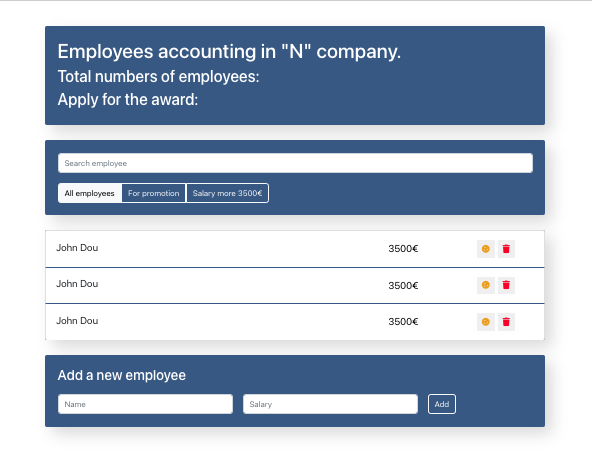
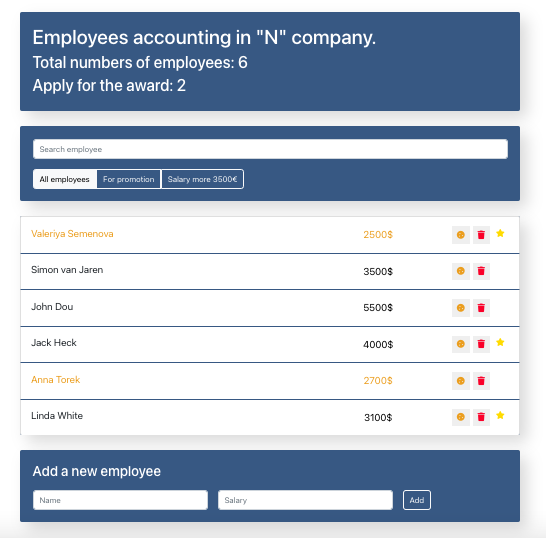
search, filter, salary

diff --git a/src/components/app/app.js b/src/components/app/app.js
@@ -14,10 +14,16 @@ class App extends Component {
             data: [
                 {name: 'Valeriya Semenova', salary: 2500, increase: true, rise: true, id: 1},
                 {name: 'Simon van Jaren', salary: 3500, increase: true, rise: false, id: 2},
-                {name: 'John Dou', salary: 5500, increase: false, rise: false, id: 3}
-            ]
+                {name: 'John Dou', salary: 5500, increase: false, rise: false, id: 3},
+                {name: 'Jack Heck', salary: 4000, increase: false, rise: true, id: 4},
+                {name: 'Anna Torek', salary: 2700, increase: true, rise: false, id: 5},
+                {name: 'Linda White', salary: 3100, increase: false, rise: true, id: 6},
+            ],
+            term: '',
+            filter: 'all'
+
         }
-        this.maxId = 4;
+        this.maxId = 7;
     }
 
     deleteItem = (id) => {
@@ -71,23 +77,67 @@ class App extends Component {
             })
         }))
     }
+
+    searchEmp = (items, term) => {
+        if(term.length === 0) {
+            return items;
+        }
+        return items.filter(item => {
+            return item.name.indexOf(term) > -1 
+        })
+        }
+
+        onUpdateSearch = (term) => {
+            this.setState({term});
+        }
+
+        filterPost = (items, filter) => {
+            switch(filter) {
+                case 'rise':
+                    return items.filter(item => item.rise);
+                case 'moreThanAverage':
+                    return items.filter(item => item.salary > 3000);
+                default:
+                    return items
+            }
+
+        }
+
+        onFilterSelect = (filter) => {
+            this.setState({filter});
+        }
+
+        onSalaryChange = (name, salary) => {
+            this.setState(({data}) => ({
+              data: data.map(item => {
+                if(item.name === name) {
+                  return {...item, salary}
+                }
+                return item;
+              })
+            }))
+          }
     
    render() {
+    const {data, term, filter} = this.state;
     const employees = this.state.data.length;
     const increased = this.state.data.filter(item => item.increase).length;
+    const visibleData = this.filterPost(this.searchEmp(data, term), filter);
+
     return (
         <div className="app">
             <AppInfo employees={employees} 
                     increased={increased}/>
 
             <div className="search-panel">
-                <SearchPanel/>
-                <AppFilter/>
+                <SearchPanel onUpdateSearch={this.onUpdateSearch}/>
+                <AppFilter filter={filter} onFilterSelect={this.onFilterSelect}/>
             </div>
             <EmployeesList 
-                data={this.state.data}
+                data={visibleData}
                 onDelete={this.deleteItem}
-                onToggleProp={this.onToggleProp}/>
+                onToggleProp={this.onToggleProp}
+                onSalaryChange={this.onSalaryChange}/>
             <EmployeesAddForm onAdd={this.addItem}/>
         </div>
     );

diff --git a/src/components/app-filter/app-filter.js b/src/components/app-filter/app-filter.js
@@ -1,23 +1,29 @@
 import './app-filter.css';
 
-const AppFilter = () => {
+const AppFilter = (props) => {
+    const buttonsData = [
+        {name: 'all', label: 'All employees'},
+        {name: 'rise', label: 'For promotion'},
+        {name: 'moreThanAverage', label: 'Salary more 3000€'},
+    ];
+
+    const buttons = buttonsData.map(({name, label}) => {
+        const active = props.filter === name;
+        const clazz = active ? 'btn-light' : 'btn-outline-light';
+
+        return (
+            <button
+            className={`btn ${clazz}`}
+            type="button"
+            key={name}
+            onClick={() => props.onFilterSelect(name)}>
+                {label}
+            </button> 
+        )
+    })
     return (
         <div className="btn-group">
-            <button
-            className="btn btn-light"
-            type="button">
-                All employees
-            </button>
-            <button
-            className="btn btn-outline-light"
-            type="button">
-                For promotion
-            </button>
-            <button
-            className="btn btn-outline-light"
-            type="button">
-                Salary more 3500€
-            </button>
+            {buttons}
         </div>
     );
 }

diff --git a/src/components/employees-list/employees-list.js b/src/components/employees-list/employees-list.js
@@ -1,7 +1,7 @@
 import EmployeesListItem from '../employees-list-item/employees-list-item';
 import './employees-list.css';
 
-const EmployeesList = ({data, onDelete, onToggleProp}) => {
+const EmployeesList = ({data, onDelete, onToggleProp, onSalaryChange}) => {
 
     const elements = data.map(item => {
         const {id, ...itemProps} = item;
@@ -9,7 +9,8 @@ const EmployeesList = ({data, onDelete, onToggleProp}) => {
             <EmployeesListItem key={id} 
                             {...itemProps} // name={item.name} salary={item.salary}
                             onDelete={() => onDelete(id)}
-                            onToggleProp={(e) => onToggleProp(id, e.currentTarget.getAttribute('data-toggle'))}/>
+                            onToggleProp={(e) => onToggleProp(id, e.currentTarget.getAttribute('data-toggle'))}
+                            onSalaryChange={onSalaryChange}/>
         )
     })
 

diff --git a/src/components/employees-list-item/employees-list-item.js b/src/components/employees-list-item/employees-list-item.js
@@ -1,8 +1,26 @@
 
+import { Component } from "react";
 import "./employees-list-item.css";
 
-const EmployeesListItem = (props) => {
-    const {name, salary, onDelete, onToggleProp, increase, rise} = props;
+class EmployeesListItem extends Component  {
+  constructor(props) {
+    super(props);
+    this.state = {
+      salary: this.props.salary
+    }
+  }
+
+    onSalaryChange = (e) => {
+      const {onSalaryChange, name} = this.props;
+      this.setState(({salary}) => ({
+        salary: e.target.value
+      }));
+
+      onSalaryChange(name, e.target.value)
+    }
+
+  render() {
+    const {name, salary, onDelete, onToggleProp, increase, rise} = this.props;
 
     let classNames = "list-group-item d-flex justify-content-between";
     if (increase) {
@@ -38,6 +56,7 @@ const EmployeesListItem = (props) => {
         </div>
       </li>
     );
+  }
   }
 
 

diff --git a/src/components/search-panel/search-panel.js b/src/components/search-panel/search-panel.js
@@ -1,11 +1,29 @@
+import { Component } from 'react';
 import './search-panel.css';
 
-const SearchPanel = () => {
-    return (
-        <input type="text" 
-        className="form-control search-input"
-        placeholder="Search employee"/>
-    )
+class SearchPanel extends Component {
+    constructor(props) {
+        super(props);
+        this.state = {
+            term: ''
+        }
+    }
+
+    onUpdateSearch = (e) => {
+        const term = e.target.value;
+        this.setState({term});
+        this.props.onUpdateSearch(term)
+    }
+    
+    render() {
+        return (
+            <input type="text" 
+            className="form-control search-input"
+            placeholder="Search employee"
+            value={this.state.term}
+            onChange={this.onUpdateSearch}/>
+        )
+    }
 }
 
 export default SearchPanel;

diff --git a/README.md b/README.md
@@ -1,5 +1,5 @@
 ## Employee-Accounting-App
-#### ReactPetrechenko project, part 1
+#### React project for accounting of employees
 
 ##### Preview 
-![preview](my-app/public/preview.png)
+![preview](public/preview.png)
